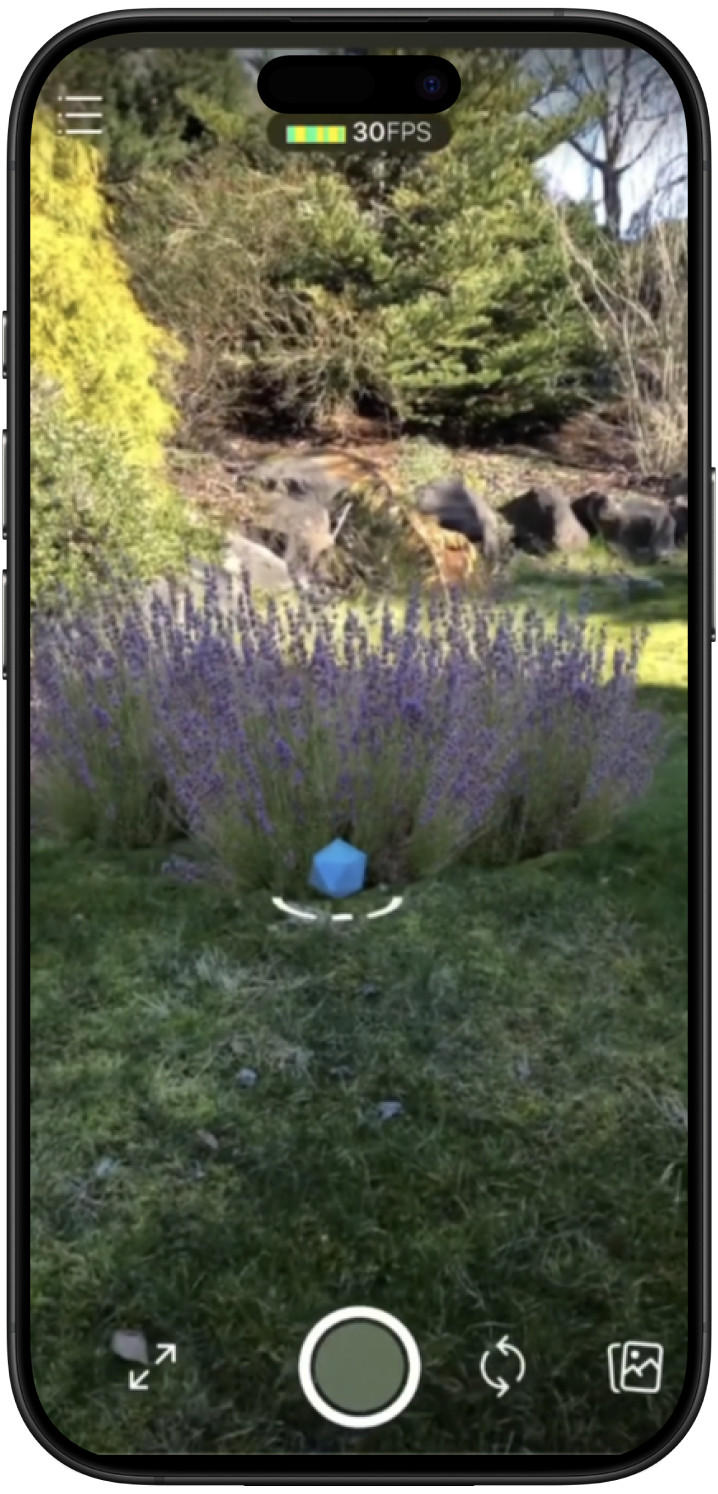
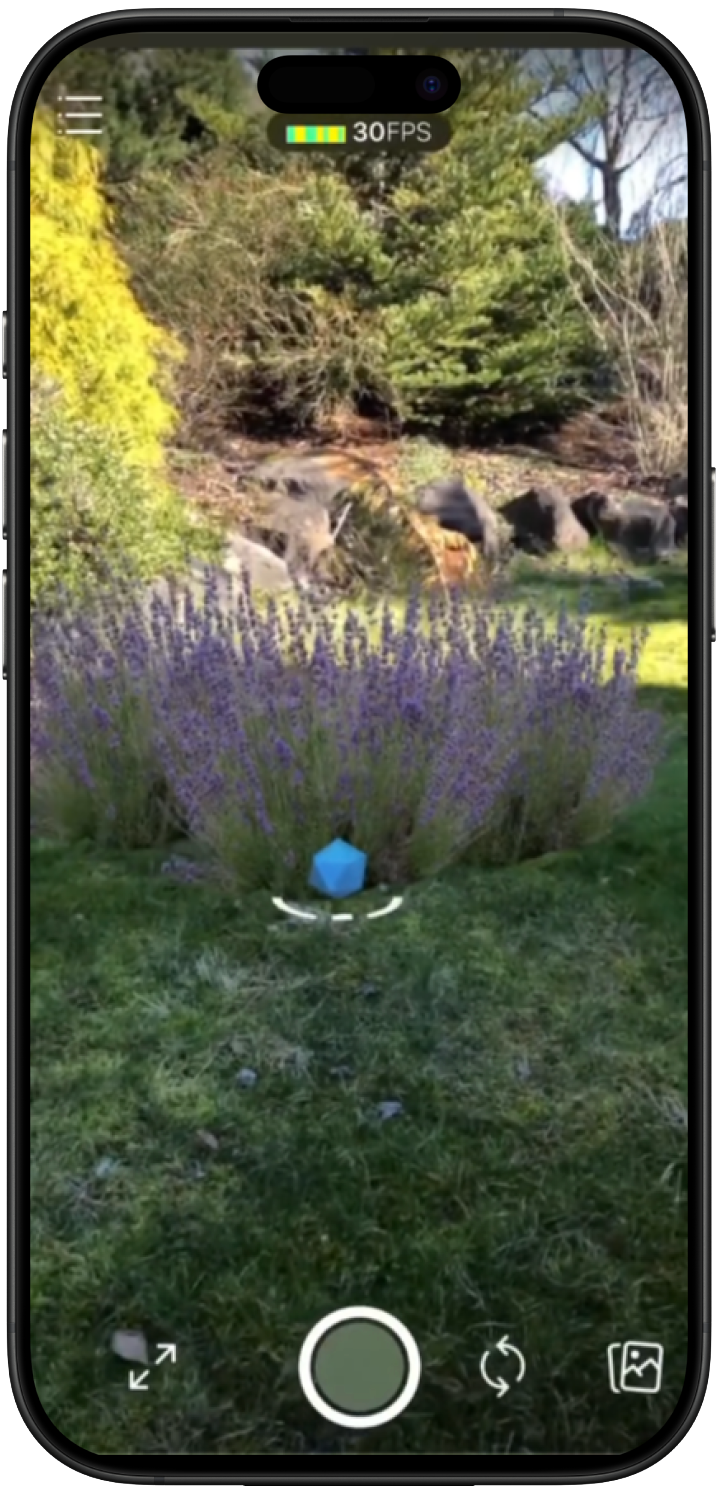
fix(landing): fix light mode colors on AR card and AR phone mockup
Use a light card background for the AR feature card in light mode and
make the white corners of the AR mockup transparent.

Changed region(s): [[0.0306, 0.0924, 0.2145, 0.3079], [0.3983, 0.0616, 0.4903, 0.0924], [0.429, 0.5542, 0.4903, 0.585]]

diff --git a/public/landing/style.css b/public/landing/style.css
@@ -196,8 +196,11 @@ em { font-style: normal; color: var(--green-text); }
 .card:not(.big):not(.ar):not(.wide) { grid-column: span 3; }
 .card.big { grid-column: span 4; display: grid; grid-template-columns: 1.2fr 1fr; gap: 24px; background: var(--soft); }
 .card.wide { grid-column: span 6; display: grid; grid-template-columns: 1.3fr 1fr; align-items: center; background: var(--sky); }
-.card.ar { background: var(--dark); color: #e2f0e8; }
-.card.ar p:not(.tag) { color: #9ca3af; }
+.card.ar { background: var(--sky); }
+@media (prefers-color-scheme: dark) {
+  .card.ar { background: var(--dark); color: #e2f0e8; }
+  .card.ar p:not(.tag) { color: #9ca3af; }
+}
 .card.ar img { width: 150px; margin: -10px 0 0 -14px; }
 .icon-lg { width: 110px; margin: -6px 0 10px -8px; }
 .card-phone { width: 220px; justify-self: center; align-self: end; margin-bottom: -150px; filter: drop-shadow(6px 8px 0 rgba(20, 83, 45, .28)); }
